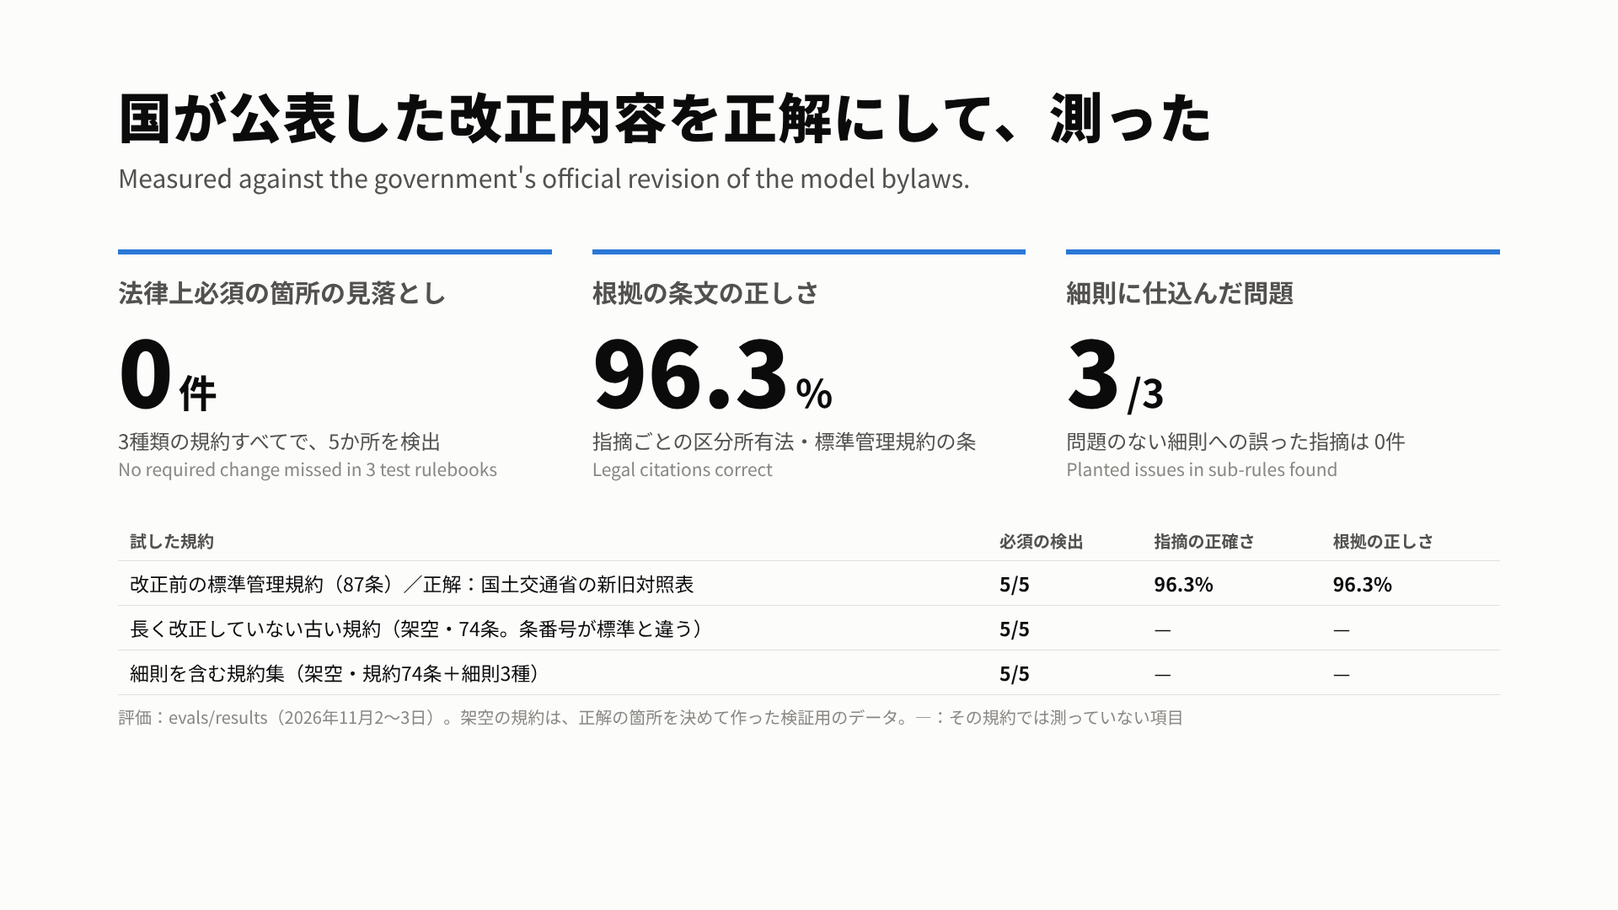
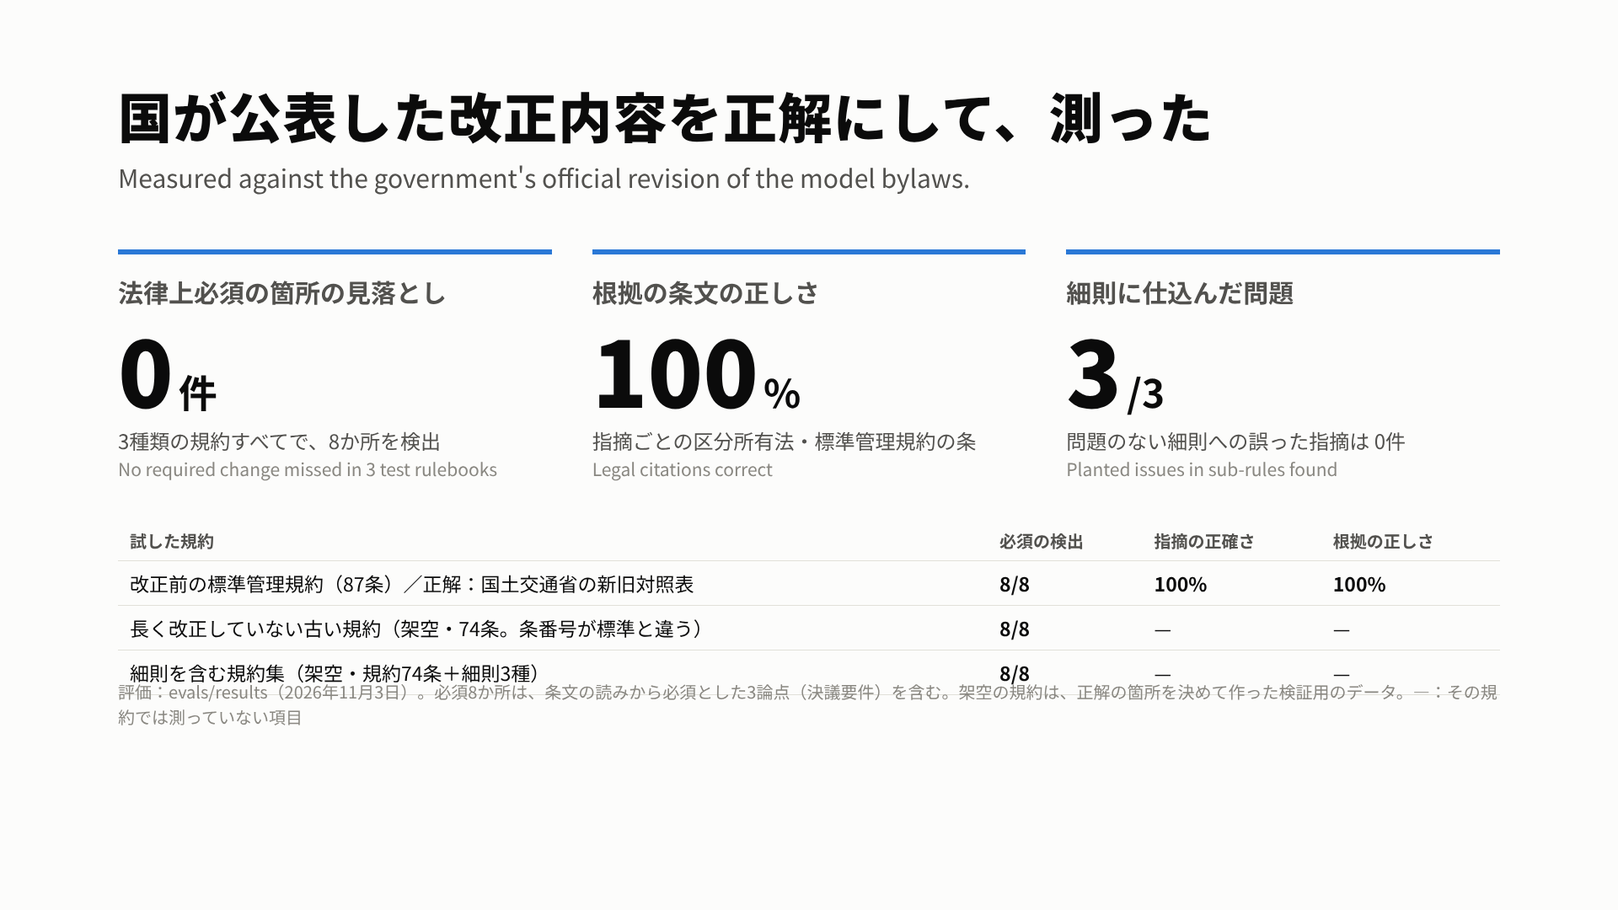
論点1-4・1-5も必須に変更（必須は8件）。条文の読みから必須とした3論点に、画面で注記を出す。評価の数え直しと動画の図の更新
Claude-Session: https://claude.ai/code/session_01KMDftsrbgp6KUVXbedew97

diff --git a/docs/demo/figures/src/04_eval.html b/docs/demo/figures/src/04_eval.html
@@ -17,9 +17,9 @@ td.n { font-variant-numeric: tabular-nums; font-weight: 700; }
 <div class="tiles">
   <div class="tile"><div class="label">法律上必須の箇所の見落とし</div>
     <div class="value">0<small>件</small></div>
-    <div class="note">3種類の規約すべてで、5か所を検出<i>No required change missed in 3 test rulebooks</i></div></div>
+    <div class="note">3種類の規約すべてで、8か所を検出<i>No required change missed in 3 test rulebooks</i></div></div>
   <div class="tile"><div class="label">根拠の条文の正しさ</div>
-    <div class="value">96.3<small>%</small></div>
+    <div class="value">100<small>%</small></div>
     <div class="note">指摘ごとの区分所有法・標準管理規約の条<i>Legal citations correct</i></div></div>
   <div class="tile"><div class="label">細則に仕込んだ問題</div>
     <div class="value">3<small>/3</small></div>
@@ -27,9 +27,9 @@ td.n { font-variant-numeric: tabular-nums; font-weight: 700; }
 </div>
 <table>
   <tr><th>試した規約</th><th>必須の検出</th><th>指摘の正確さ</th><th>根拠の正しさ</th></tr>
-  <tr><td>改正前の標準管理規約（87条）／正解：国土交通省の新旧対照表</td><td class="n">5/5</td><td class="n">96.3%</td><td class="n">96.3%</td></tr>
-  <tr><td>長く改正していない古い規約（架空・74条。条番号が標準と違う）</td><td class="n">5/5</td><td>—</td><td>—</td></tr>
-  <tr><td>細則を含む規約集（架空・規約74条＋細則3種）</td><td class="n">5/5</td><td>—</td><td>—</td></tr>
+  <tr><td>改正前の標準管理規約（87条）／正解：国土交通省の新旧対照表</td><td class="n">8/8</td><td class="n">100%</td><td class="n">100%</td></tr>
+  <tr><td>長く改正していない古い規約（架空・74条。条番号が標準と違う）</td><td class="n">8/8</td><td>—</td><td>—</td></tr>
+  <tr><td>細則を含む規約集（架空・規約74条＋細則3種）</td><td class="n">8/8</td><td>—</td><td>—</td></tr>
 </table>
-<div class="source">評価：evals/results（2026年11月2〜3日）。架空の規約は、正解の箇所を決めて作った検証用のデータ。—：その規約では測っていない項目</div>
+<div class="source">評価：evals/results（2026年11月3日）。必須8か所は、条文の読みから必須とした3論点（決議要件）を含む。架空の規約は、正解の箇所を決めて作った検証用のデータ。—：その規約では測っていない項目</div>
 </body></html>

diff --git a/app/templates/work.html b/app/templates/work.html
@@ -200,7 +200,8 @@
       <div><ul class="basis">{% for b in v.basis %}
         <li><details><summary><span class="src src-{{ b.kind }}">{{ b.source }}</span> {{ b.ref }}{% if b.caption %} <span class="cap">{{ b.caption }}</span>{% endif %}</summary>
           {% if b.text %}<div class="btext">{{ b.text }}</div>{% else %}<div class="muted">本文を表示できませんでした。</div>{% endif %}</details></li>
-      {% endfor %}</ul><div class="muted small">見出しを押すと、条文の本文が開きます。</div></div></div>
+      {% endfor %}</ul><div class="muted small">見出しを押すと、条文の本文が開きます。</div>
+      {% if v.note %}<div class="readnote">{{ v.note }}</div>{% endif %}</div></div>
 
     <div class="sec decide"><div class="lbl">委員会の判断<div class="cardsave" id="cs-{{ i }}"></div></div>
       {% if f.category == "必須" %}

diff --git a/app/templates/base.html b/app/templates/base.html
@@ -132,6 +132,7 @@ input.reason { margin-top:8px; max-width:none; }
 .justdone.warn { background:#fffaeb; border-color:#fedf89; color:#93370d; }
 .costs { margin:8px 0; }
 .orgedit { margin:-4px 0 10px; font-size:.92rem; } .orgedit summary { cursor:pointer; color:var(--muted); } .orgedit .ok { color:#067647; } .orgedit input { max-width:360px; }
+.readnote { font-size:.85rem; color:#5b636e; background:#f7f8fa; border-left:3px solid #c3c2b7; padding:4px 10px; margin-top:6px; }
 .bulk { background:#f7f8fa; border:1px solid var(--line, #d6dbe1); border-radius:8px; padding:8px 12px; margin:8px 0 12px; }
 .bulk select, .bulk .reason { width:auto; display:inline-block; max-width:260px; margin:2px 4px; }
 .fold > summary { cursor:pointer; color:var(--accent); font-weight:700; margin:6px 0; }

diff --git a/core/topics.py b/core/topics.py
@@ -18,10 +18,12 @@ TOPICS: list[dict] = [
      "check": "特別決議の総会の定足数が「組合員総数の過半数かつ議決権総数の過半数」になっているか（半数以上では足りない）"},
     {"id": "1-3", "topic": "普通決議の定足数", "standard": ["47"], "category": "推奨", "law": ["39"],
      "check": "基本の定足数が「議決権総数の半数以上」のままか（標準は過半数。法の要求ではない）"},
-    {"id": "1-4", "topic": "共用部分の変更等の決議要件の緩和（3/4→2/3）", "standard": ["47"], "category": "要確認",
-     "law": ["17"], "check": "瑕疵の除去・バリアフリー化のための共用部分の変更などを2/3で決議する区分があるか"},
-    {"id": "1-5", "topic": "マンション再生決議（建替え・更新・売却・取壊し）", "standard": ["47"], "category": "要確認",
-     "law": ["62", "64の5", "64の6", "64の7", "64の8"], "check": "再生手法ごとの決議要件と、客観的事由がある場合の3/4への緩和"},
+    {"id": "1-4", "topic": "共用部分の変更等の決議要件の緩和（3/4→2/3）", "standard": ["47"], "category": "必須",
+     "law": ["17"], "check": "瑕疵の除去・バリアフリー化のための共用部分の変更などを、出席者の2/3で決議する区分があるか"
+     "（第17条第5項。第1項は割合を規約で下げることだけを認め、上げる文言はない。同じ書き方の第31条について、国交省は古い規約の定めは抵触し無効としている）"},
+    {"id": "1-5", "topic": "マンション再生決議（建替え・更新・売却・取壊し）", "standard": ["47"], "category": "必須",
+     "law": ["62", "64の5", "64の6", "64の7", "64の8"], "check": "建替えなどの決議を一律に4/5としていないか。客観的な事由（耐震性の不足など。第62条第2項）があれば3/4に下がる定めがあるか"
+     "（決議の割合に規約で変える文言はなく、事由がある場面では4/5のままの規約が法より重くなり抵触する。更新・取壊しなどの新しい決議の定めがないこと自体は抵触ではない）"},
     {"id": "1-6", "topic": "滅失した共用部分の復旧決議（建物の価格の1/2超の滅失）", "standard": ["47"], "category": "必須",
      "law": ["61"], "check": "復旧決議が「組合員総数・議決権総数の各3/4以上」のままか（改正法は各過半数の出席と出席者の各2/3以上。第61条第5項。"
      "規約で変えられるのは出席の要件を上げることだけで、第4項の別段の定めは第1〜3項だけに及ぶ。同じ書き方の第31条について、国交省は古い規約の定めは抵触し無効としている）"},
@@ -54,6 +56,18 @@ TOPICS: list[dict] = [
     {"id": "13", "topic": "防災関係業務・防火管理者", "standard": ["32", "32の2"], "category": "推奨", "law": [],
      "check": "防災関係業務と防火管理者の規定があるか"},
 ]
+
+# 条文の読みから「必須」と判断した論点（11/3）。国交省・法務省の資料で名指しした判断は見つけていないので、画面に注記を出す
+_TAIL = ("国交省は、規約の変更の決議（区分所有法 第31条）について、古い規約の定めは改正法に抵触し無効としています（「手続の留意点」）。"
+         "同じ考え方で「必須」と判断しました。この論点を名指しした国の資料は、まだ見つけていません。")
+READING_NOTES = {
+    "1-4": "区分所有法 第17条は、決議の割合を規約で下げることだけを認め、上げる文言がありません。" + _TAIL,
+    "1-5": "区分所有法 第62条などは、決議の割合を規約で変える文言がなく、客観的な事由（耐震性の不足など）があれば4分の3に下がります。" + _TAIL,
+    "1-6": "区分所有法 第61条第5項は、出席の要件しか規約で変えられません（第4項の別段の定めは、小さな滅失の第1〜3項だけ）。" + _TAIL,
+}
+for _t in TOPICS:
+    if _t["id"] in READING_NOTES:
+        _t["note"] = READING_NOTES[_t["id"]]
 
 TOPIC_BY_ID = {t["id"]: t for t in TOPICS}
 REQUIRED_TOPIC_IDS = [t["id"] for t in TOPICS if t["category"] == "必須"]

diff --git a/tests/test_findings.py b/tests/test_findings.py
@@ -80,11 +80,16 @@ def test_allows_missing_provision(kiyaku):
     assert finding is not None
 
 
-def test_category_follows_topic_table(kiyaku):
+def test_category_follows_topic_table(kiyaku, monkeypatch):
     finding, warnings = validate(base(category="推奨"), kiyaku)
     assert finding.category == "必須"
     assert warnings
-    # 「要確認」の論点は推奨として扱い、要確認の印を付ける
+    # 1-4〜1-6 は 11/3 に必須へ（docs/DOMAIN.md）
+    finding, _ = validate(base(topic_id="1-6", category="推奨"), kiyaku)
+    assert finding.category == "必須" and not finding.needs_confirmation
+    # 「要確認」の論点は推奨として扱い、要確認の印を付ける（いまは該当がないので、論点表を一時的に書き換えて確かめる）
+    from core.topics import TOPIC_BY_ID
+    monkeypatch.setitem(TOPIC_BY_ID, "1-4", {**TOPIC_BY_ID["1-4"], "category": "要確認"})
     finding, _ = validate(base(topic_id="1-4", category="必須"), kiyaku)
     assert finding.category == "推奨" and finding.needs_confirmation
 

diff --git a/tests/test_present.py b/tests/test_present.py
@@ -69,3 +69,13 @@ def test_resolution():
     assert resolution(FINDING)["kind"] == "特別"
     assert resolution({**FINDING, "document": "○○マンション駐車場使用細則", "where": "細則で対応可"})["label"].startswith("細則の変更")
     assert resolution({**FINDING, "where": "細則で対応可"})["kind"] == "普通"
+
+
+def test_reading_note_only_for_required():
+    from core.present import view
+
+    f = {"topic_id": "1-6", "category": "必須", "article": "第47条", "document": "規約", "proposal": "", "issue": "",
+         "law_basis": ["第61条第5項"], "standard_basis": ["第47条第4項"]}
+    assert "第61条第5項" in view(f)["note"]
+    assert view({**f, "category": "推奨"})["note"] == ""  # 11/3 より前の点検の指摘
+    assert view({**f, "topic_id": "2-2"})["note"] == ""

diff --git a/evals/build_old_style.py b/evals/build_old_style.py
@@ -51,7 +51,9 @@ EXTRA_ITEM_32 = "十六　地域コミュニティにも配慮した居住者間
 REQUIRED_CAPTIONS = {
     "1-1": ["総会の会議及び議事"],
     "1-2": ["総会の会議及び議事"],
-    "1-6": ["総会の会議及び議事"],  # 11/3 に必須へ（復旧決議の定めも総会の議事の条にある）
+    "1-4": ["総会の会議及び議事"],  # 1-4〜1-6 は 11/3 に必須へ（決議要件の定めはどれも総会の議事の条にある）
+    "1-5": ["総会の会議及び議事"],
+    "1-6": ["総会の会議及び議事"],
     "2-1": ["招集手続"],
     "2-2": ["招集手続"],
     "3": ["損害保険", "理事長の勧告及び指示等"],

diff --git a/core/present.py b/core/present.py
@@ -149,4 +149,7 @@ def view(finding: dict, corpus=None) -> dict:
         "proposal": annotate(finding.get("proposal", ""), finding, corpus),
         "issue": annotate(finding.get("issue", ""), finding, corpus),
         "basis": basis(finding),
+        # 条文の読みから必須とした論点の注記（11/3 より前の点検で「推奨」として保存された指摘には出さない）
+        "note": (__import__("core.topics", fromlist=["TOPIC_BY_ID"]).TOPIC_BY_ID.get(finding.get("topic_id", ""), {}).get("note", "")
+                 if finding.get("category") == "必須" else ""),
     }

diff --git a/docs/DOMAIN.md b/docs/DOMAIN.md
@@ -36,8 +36,8 @@
 | 1-1 | 特別決議を出席者の多数決に | ◎ | 第31条第1項、第17条第1項 | 第47条第3項 | 「組合員総数と議決権総数の各3/4以上」から「出席組合員とその議決権の各3/4以上」に変更 | 特別決議が「組合員総数の3/4以上」など全員を母数にしていないか | **必須**：法は「出席者の3/4」と定め、この割合を規約で上げることを認めていない（第31条第1項、第17条第1項）。【留意点】も、現行規約第47条第1項・第3項は抵触するとしている | 概要p.1、スライドp.6、留意点 |
 | 1-2 | 特別決議の定足数 | ◎ | 第31条第1項、第17条第1項 | 第47条第3項 | 特別決議の総会は「組合員総数の過半数かつ議決権総数の過半数」の出席が必要 | 定足数が「議決権総数の半数以上」だけになっていないか（半数ちょうどでは足りない。組合員数の要件もある） | **必須** | スライドp.7、留意点※1 |
 | 1-3 | 普通決議の定足数 | ◎（テーマ） | 第39条第1項（法は普通決議の定足数を定めていない） | 第47条第1項 | 「議決権総数の半数以上」から「過半数」へ。1-2 と考え方をそろえるための変更 | 定足数の表現 | **推奨**：法の要求ではなく、標準管理規約が考え方をそろえたもの | スライドp.7 |
-| 1-4 | 共用部分の変更などの決議要件の緩和 | ◎（テーマ） | 第17条第5項 | 第47条第4項 | 瑕疵の除去やバリアフリー化に必要な共用部分の変更などは、3/4から2/3に | 2/3 の決議区分があるか | **要確認**：3/4 のままの規約が法に抵触するかは、一次資料で明示されていない | スライドp.8 |
-| 1-5 | マンション再生決議（建替え・更新・売却・取壊し） | ◎（テーマ） | 第62条、第64条の5〜第64条の8 | 第47条第5項・第6項 | 更新・建物敷地売却・取壊しなどの決議要件を新設。客観的な事由があるときは4/5から3/4に緩和 | 再生手法の決議要件の規定 | **要確認**（1-4 と同じ理由） | スライドp.8 |
+| 1-4 | 共用部分の変更などの決議要件の緩和 | ◎（テーマ） | 第17条第5項 | 第47条第4項 | 瑕疵の除去やバリアフリー化に必要な共用部分の変更などは、3/4から2/3に | 2/3 の決議区分があるか | **必須**（11/3 ユーザー判断）：第17条第1項は割合を規約で下げることだけを認め、第5項で2/3に読み替える。上げる文言はないので、第31条（国交省が古い規約の定めを無効とした）と同じ理屈で、3/4 のままの規約は抵触する。名指しの公式資料は見つけていない（注記として残す） | スライドp.8 |
+| 1-5 | マンション再生決議（建替え・更新・売却・取壊し） | ◎（テーマ） | 第62条、第64条の5〜第64条の8 | 第47条第5項・第6項 | 更新・建物敷地売却・取壊しなどの決議要件を新設。客観的な事由があるときは4/5から3/4に緩和 | 再生手法の決議要件の規定 | **必須**（11/3 ユーザー判断）：第62条などの決議の割合に規約で変える文言はない。客観的な事由（第62条第2項）がある場面では、4/5 のままの規約が法より重くなり抵触する。名指しの公式資料は見つけていない（注記として残す） | スライドp.8 |
 | 1-6 | 滅失した共用部分の復旧決議（建物の価格の1/2を超える滅失） | ◎（テーマ） | 第61条第5項 | 第47条第4項第三号 | 「組合員総数と議決権総数の各3/4以上」から「出席者の各2/3以上」に（定足数は各過半数） | 復旧決議が全員を母数にした3/4のままか | **必須**（11/3 ユーザー判断）：第61条第5項は出席の要件だけ規約で上げることを認め、出席者の2/3には規約で変える文言がない。第4項の「規約で別段の定め」は第1〜3項（価格の1/2以下の滅失）だけ。同じ書き方の第31条第1項について、国交省「手続の留意点」は古い規約の全員の3/4は抵触し無効とする。第61条第5項を名指しした国交省・法務省の資料は見つけていない（注記として残す） | 法第61条第5項、標準第47条第4項 |
 | 2-1 | 招集通知に「議案の要領」 | ◎ | 第35条第1項 | 第43条第1項 | すべての議案について「議案の要領」を通知する（旧規約は特別決議などの場合だけ） | 議案の要領を一部の決議に限っていないか | **必須**（◎） | スライドp.13、法第35条第1項 |
 | 2-2 | 緊急招集の最短期間 | ◎ | 第35条第1項 | 第43条第8項（旧規約では第9項） | 理事会の承認による短縮の下限を「5日間」から「1週間」に | 「5日間を下回らない範囲」などの規定が残っていないか | **必須**：法は1週間前の通知を定め、規約では伸ばすことしかできない。【留意点】※2 | スライドp.13、留意点※2 |
@@ -75,7 +75,7 @@
 - **選択式の規定**：電磁的方法の（ア）（イ）などは、両方の案が本文に並んでいる
 
 ## 要確認として残っていること
-- 1-4、1-5：3/4 や 4/5 のままの規約が、法に抵触して無効になるのか（規約で要件を加重できるか）。1-6 は 11/3 に必須とした
+- 1-4、1-5、1-6：11/3 にユーザーの判断で必須とした（下の条文の確認による）
   - 11/3 の条文の確認（e-Gov の改正後の条文）：
     - 1-4（第17条第1項・第5項）：出席の要件は規約で上げられる。決議の割合は「4分の3（これを下回る割合（2分の1超）を規約で定めた場合はその割合）」で、規約で**下げる**ことだけを認める。第5項は瑕疵の除去・バリアフリー化について「4分の3」を「3分の2」と読み替える。規約で割合を上げる文言はないので、第31条と同じ理屈なら、3分の2の区分を設けずに4分の3（全員母数でも出席者でも）のままの規約は抵触する
     - 1-5（第62条、第64条の5〜第64条の8）：決議の割合に規約の文言は一切ない（第61条・第31条と違い、出席の要件もない全員母数）。第62条第2項の客観的な事由（耐震性の不足など）があれば4/5を3/4に読み替え、更新・敷地売却・取壊しの決議にも準用する。古い規約の「建替え決議は4/5」は、事由がない場合は法と同じだが、事由がある場合に法より重くなり、その場面で抵触する。更新・取壊しなどの新しい決議の定めがないこと自体は抵触ではない（法がそのまま適用される）

diff --git a/docs/DEMO.md b/docs/DEMO.md
@@ -74,7 +74,7 @@
 | 時間 | 画面 | ナレーション | 英語の字幕 |
 | --- | --- | --- | --- |
 | 2:30 | 図 03_architecture.png：点検役（Managed Agents＋改正知識のスキル＋条を取り寄せるツール）→ 改定案（Outcomes の採点役）→ 決まった処理（新旧対照表・最新規約） | 判断が要るところは Claude のエージェントに、毎回同じであるべきところはプログラムに任せました。 | Judgment goes to Claude's Managed Agents. Anything that must be exact is handled by plain code. |
-| 2:39 | 図 04_eval.png：国の新旧対照表を正解にして、必須の検出 5/5、根拠の正しさ 96.3%。条番号の違う古い規約・細則入りの規約集でも必須 5/5 | 国が公表した新旧対照表を正解にして測りました。法律上必須の箇所は、3種類の規約すべてで見落としなし。 | Measured against the government's official revision: every legally required change found, across all three test rulebooks. |
+| 2:39 | 図 04_eval.png：国の新旧対照表を正解にして、必須の検出 8/8、根拠の正しさ 100%。条番号の違う古い規約・細則入りの規約集でも必須 8/8 | 国が公表した新旧対照表を正解にして測りました。法律上必須の箇所は、3種類の規約すべてで見落としなし。 | Measured against the government's official revision: every legally required change found, across all three test rulebooks. |
 
 ### ⑧ 締め（2:50–3:00）
 | 時間 | 画面 | ナレーション | 英語の字幕 |
@@ -92,7 +92,7 @@
 ## 撮影前に確かめること
 - 付録Aの数字は 11/3 に国交省の一次資料で確認済み。撮影の直前に、国交省が新しい年の数字を出していないか見る（ストック数は毎年更新される）
 - ②で「半数が法改正に対応できていない」とは言わない。「約半数は古い版のまま」と言う（付録B）
-- ⑦の評価の数字（図 04_eval.png）を、11/6 に確定した評価で差し替える（今は evals/results の 11/2〜11/3 の結果：標準管理規約で必須 5/5・指摘の正確さ 96.3%・根拠の正しさ 96.3%、古い規約・規約集でも必須 5/5、細則に仕込んだ問題 3/3）
+- ⑦の評価の数字（図 04_eval.png）を、11/6 に確定した評価で差し替える（今は evals/results の 11/3 の結果：必須 8/8〔1-4〜1-6 を必須にした後の数え方〕、標準管理規約で指摘の正確さ 100%・根拠の正しさ 100%、細則に仕込んだ問題 3/3）
 - 画面に実在のマンション名・住民名・部屋番号が映っていないか、書き出した動画を1コマずつ確認する
 
 ## 付録：数字の裏付けと言い方の注意

diff --git a/progress.md b/progress.md
@@ -188,4 +188,5 @@
 - 結果：標準管理規約で1回目で合格・8.1分・$2.64（前 2回目で合格・11.1分・$3.84）、国の改正文との近さ 0.982（前 0.931）。規約集も1回目で合格（$3.18）。docs/plans/検証ループ.md
 - 論点1-6（大規模滅失の復旧決議）を「必須」に変更（ユーザー判断）。根拠：第61条第5項は出席の要件しか規約で変えられず、第4項の別段の定めは第1〜3項だけ。同じ書き方の第31条について国交省は古い規約の定めを無効としている。既存の評価3本でも正しい条で検出済み（必須は6件に）
 - 論点1-4・1-5 の条文を確認（docs/DOMAIN.md）。同じ理屈なら1-4は抵触、1-5は客観的な事由がある場合に抵触。区分はユーザーの判断待ち
+- 論点1-4・1-5 も「必須」に変更（ユーザー判断）。必須は8件。既存の評価3本を数え直すと、3本とも必須 8/8・正しい条 8/8。画面の根拠の欄に「条文の読みから必須と判断した」注記を出す（論点ごとに書き分け）。動画の評価の図も更新
 
